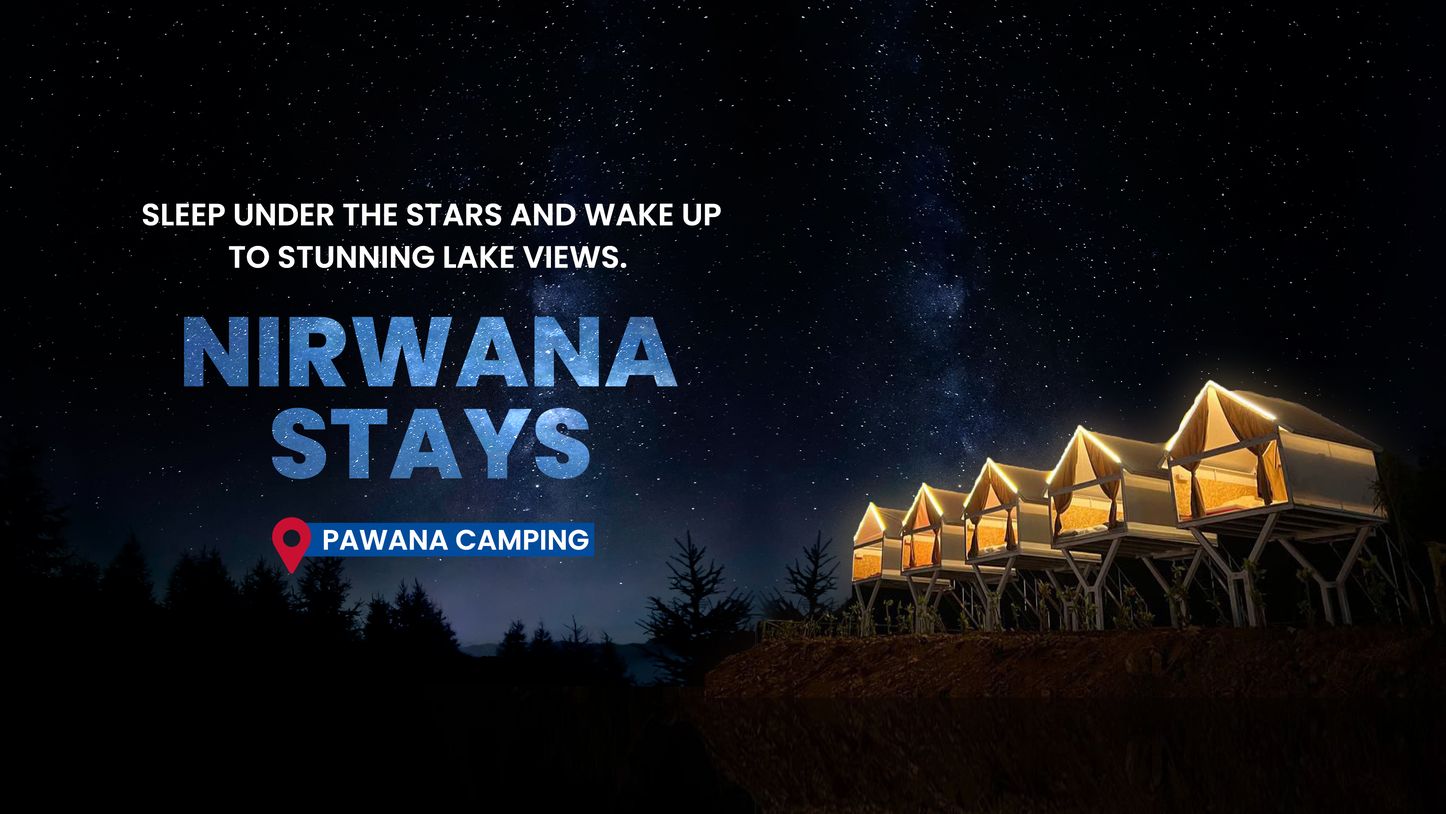
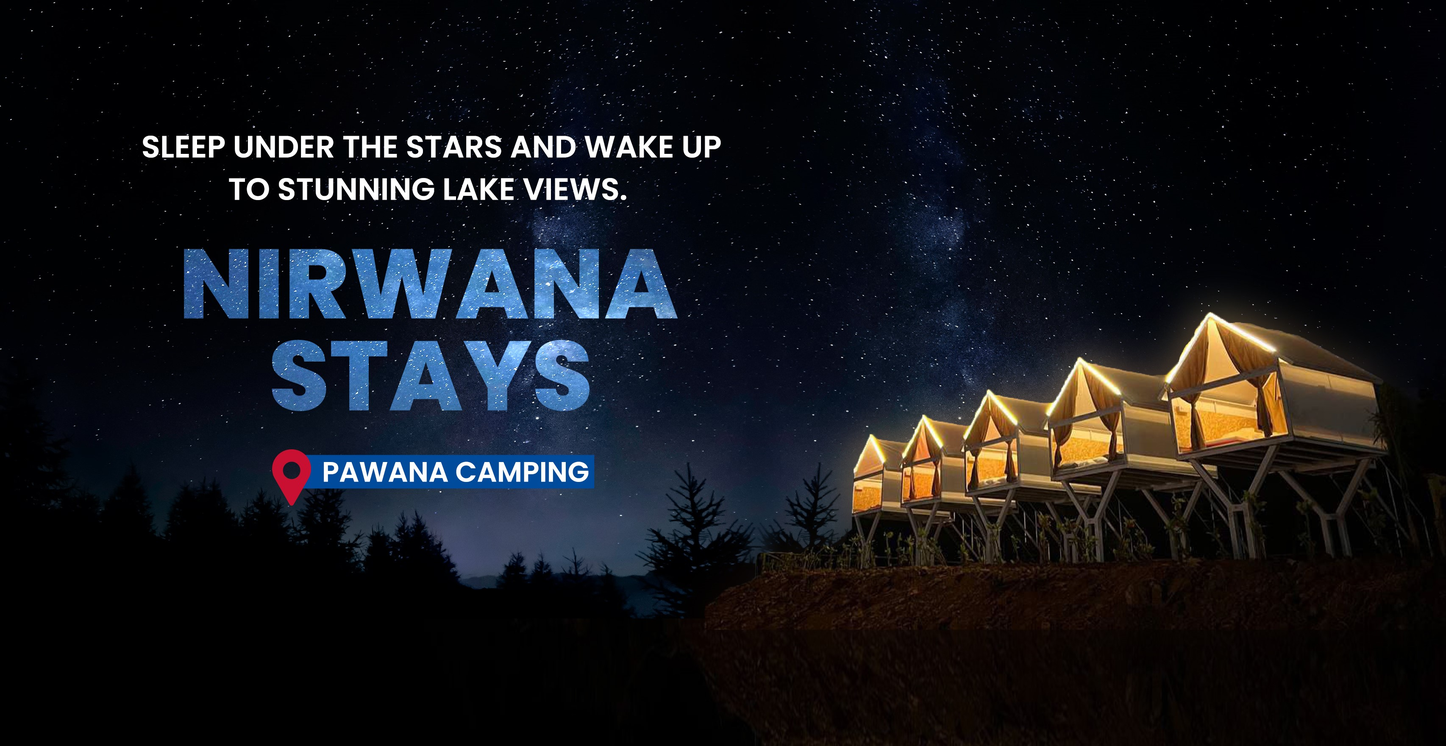
img

Changed region(s): [[0.0932, 0.1562, 0.9631, 0.8438], [0.0932, 0.7188, 0.1243, 0.75]]

diff --git a/index.html b/index.html
@@ -100,7 +100,7 @@
                             <div class="top-social">
                                 <a href="#"><i class="fa fa-facebook"></i></a>
                                 <a href="#"><i class="fa fa-twitter"></i></a>
-                                <a href="https://www.instagram.com/nirwanastays/" target="_blank"><i class="fa fa-instagram"></i></a>
+                                <a href="#"><i class="fa fa-instagram"></i></a>
                             </div>
                             <a href="./sites.html" class="bk-btn">Booking Now</a>
 
@@ -130,7 +130,8 @@
                                     <li><a href="./sites.html">OUR SITES</a></li>
                                     <li><a href="./about-us.html">ABOUT US</a></li>
                                     <li><a href="./gallery.html">GALLERY</a></li>
-                     <!-- <li><a href="./blog.html">BLOG</a></li> -->                                    <li><a href="./contact.html">CONTACT</a></li>
+                                    <li><a href="./blog.html">BLOG</a></li>
+                                    <li><a href="./contact.html">CONTACT</a></li>
                                 </ul>
                             </nav>
                             <!-- <div class="nav-right search-switch">
@@ -190,10 +191,25 @@
             </div>
         </div>
         <div class="hero-slider owl-carousel">
-            <div class="hs-item set-bg" data-setbg="./img/01.jpg"></div>
-            <div class="hs-item set-bg" data-setbg="./img/Pawana/Pawana1/Croud.jpg"></div>
-            <!-- <div class="hs-item set-bg" data-setbg="./img/hero/light.jpg"></div> -->
+            <div class="hs-item set-bg w-100" id="mobile" data-setbg="./img/01.jpg"></div>
+            <div class="hs-item set-bg w-100" id="mobile" data-setbg="./img/Pawana/Pawana1/dinner.jpg"></div>
+            <div class="hs-item set-bg w-100" id="mobile" data-setbg="./img/Pawana/Pawana1/bornfire.jpg"></div>
         </div>
+<!--
+        <div id="carouselExampleSlidesOnly" class="carousel slide" data-ride="carousel">
+            <div class="carousel-inner">
+              <div class="carousel-item active">
+                <img class="d-block w-100" src="/img/01.jpg" alt="First slide">
+
+              </div>
+              <div class="carousel-item">
+                <img class="d-block w-100" src="..." alt="Second slide">
+              </div>
+              <div class="carousel-item">
+                <img class="d-block w-100" src="..." alt="Third slide">
+              </div>
+            </div>
+          </div> -->
     </section>
     <!-- Hero Section End -->
 
@@ -602,7 +618,8 @@
                                 <a href="#"><i class="fa fa-facebook"></i></a>
                                 <a href="#"><i class="fa fa-twitter"></i></a>
                                 <!-- <a href="#"><i class="fa fa-tripadvisor"></i></a> -->
- <a href="https://www.instagram.com/nirwanastays/" target="_blank"><i class="fa fa-instagram"></i></a>                                <a href="#"><i class="fa fa-youtube-play"></i></a>
+                                <a href="#"><i class="fa fa-instagram"></i></a>
+                                <a href="#"><i class="fa fa-youtube-play"></i></a>
                             </div>
                         </div>
                     </div>
@@ -636,7 +653,7 @@
                 <div class="row">
                     <div class="col-lg-7">
                         <ul>
-                            <li><a href="./contact.html">Contact</a></li>
+                            <li><a href="#">Contact</a></li>
                             <li><a href="#">Terms of use</a></li>
                             <li><a href="#">Privacy</a></li>
                             <li><a href="#">Environmental Policy</a></li>

diff --git a/css/style.css b/css/style.css
@@ -116,8 +116,8 @@ ol {
 }
 
 .spad {
-	padding-top: 100px;
-	padding-bottom: 100px;
+	padding-top: 50px;
+	padding-bottom: 50px;
 }
 
 .spad-2 {
@@ -3431,3 +3431,36 @@ div.elem-group {
   }
 
   /*  */
+
+  /* ***************************************************** */
+  @media (max-width: 300px) {
+	#mobile {
+	  /* background-color: red; */
+	  content: url("/img/02.jpg");
+	  height: 560px;
+	  margin-top: 0%;
+	}
+  }
+
+  @media (min-width: 301px) and (max-width: 600px) {
+	#mobile {
+	  /* background-color: blue; */
+	  content: url("/img/02.jpg");
+	  height: 560px;
+	  margin-top: 0%;
+	}
+  }
+
+  @media (min-width: 601px) and (max-width: 768px) {
+	#mobile {
+	  /* content: url("/img/01.jpg"); */
+	}
+  }
+
+  @media (min-width: 769px) {
+	#mobile {
+	  /* background-color: green; */
+	  /* content: url("/img/01.jpg"); */
+	  height: 50vw;
+	}
+  }

diff --git a/js/main.js b/js/main.js
@@ -226,5 +226,7 @@
   }
 
 
+// ///////////////////////////
+
 
 })(jQuery);
